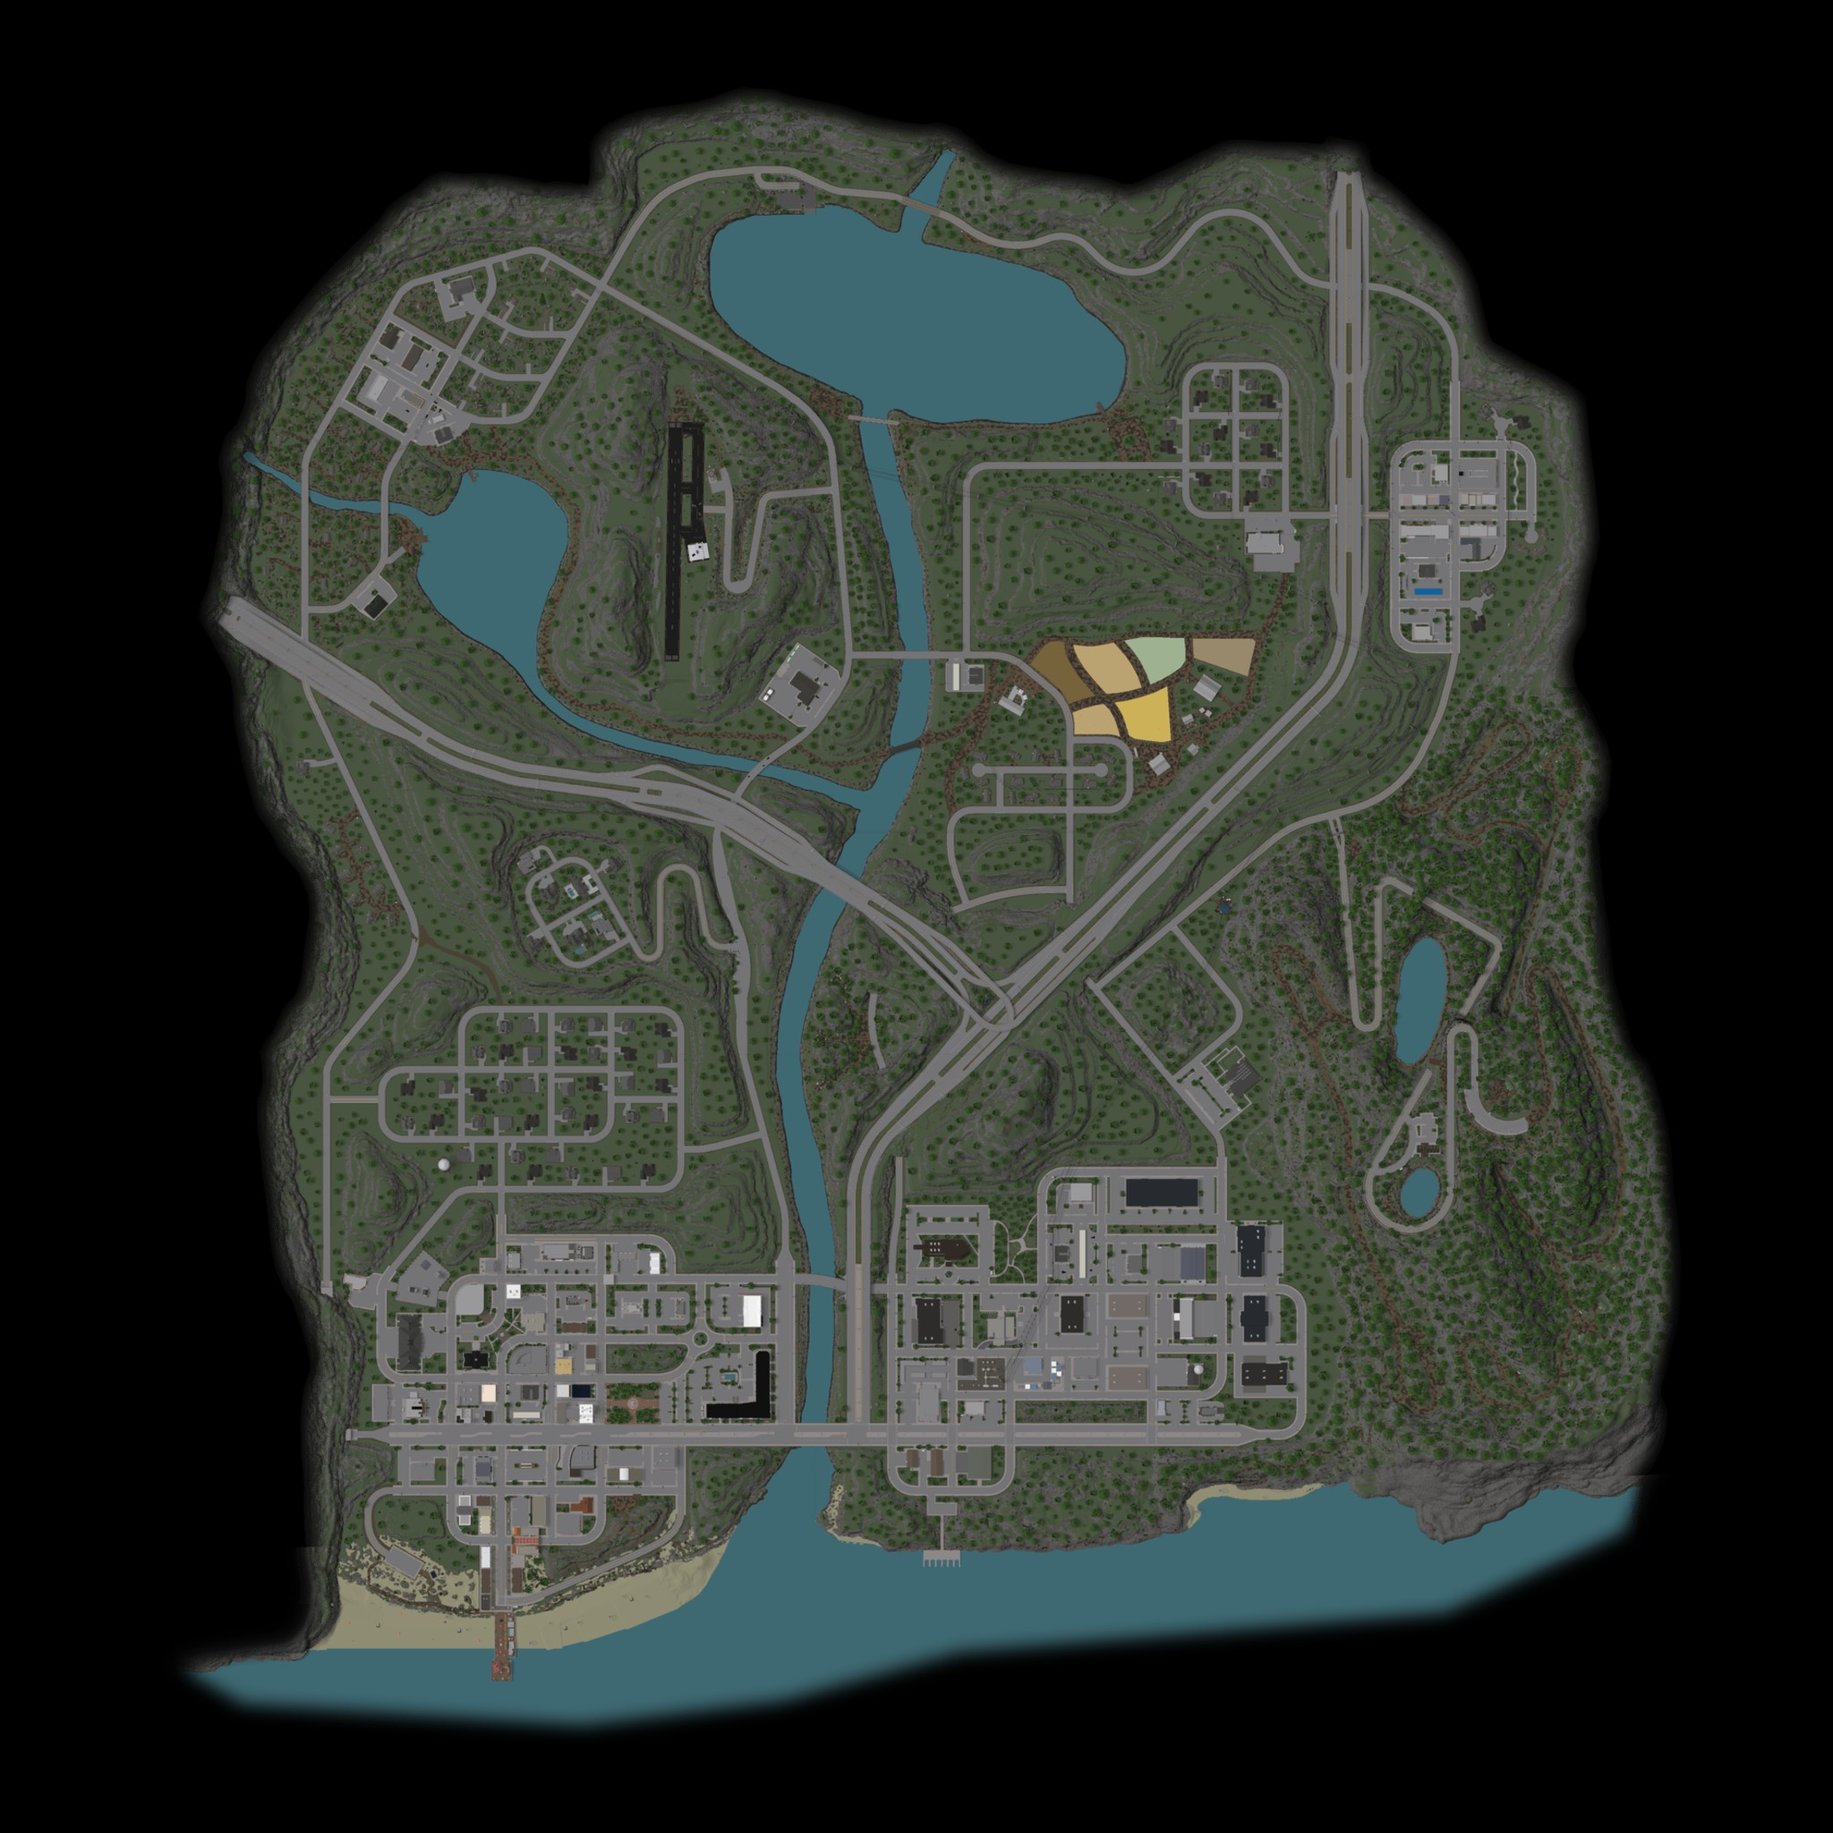
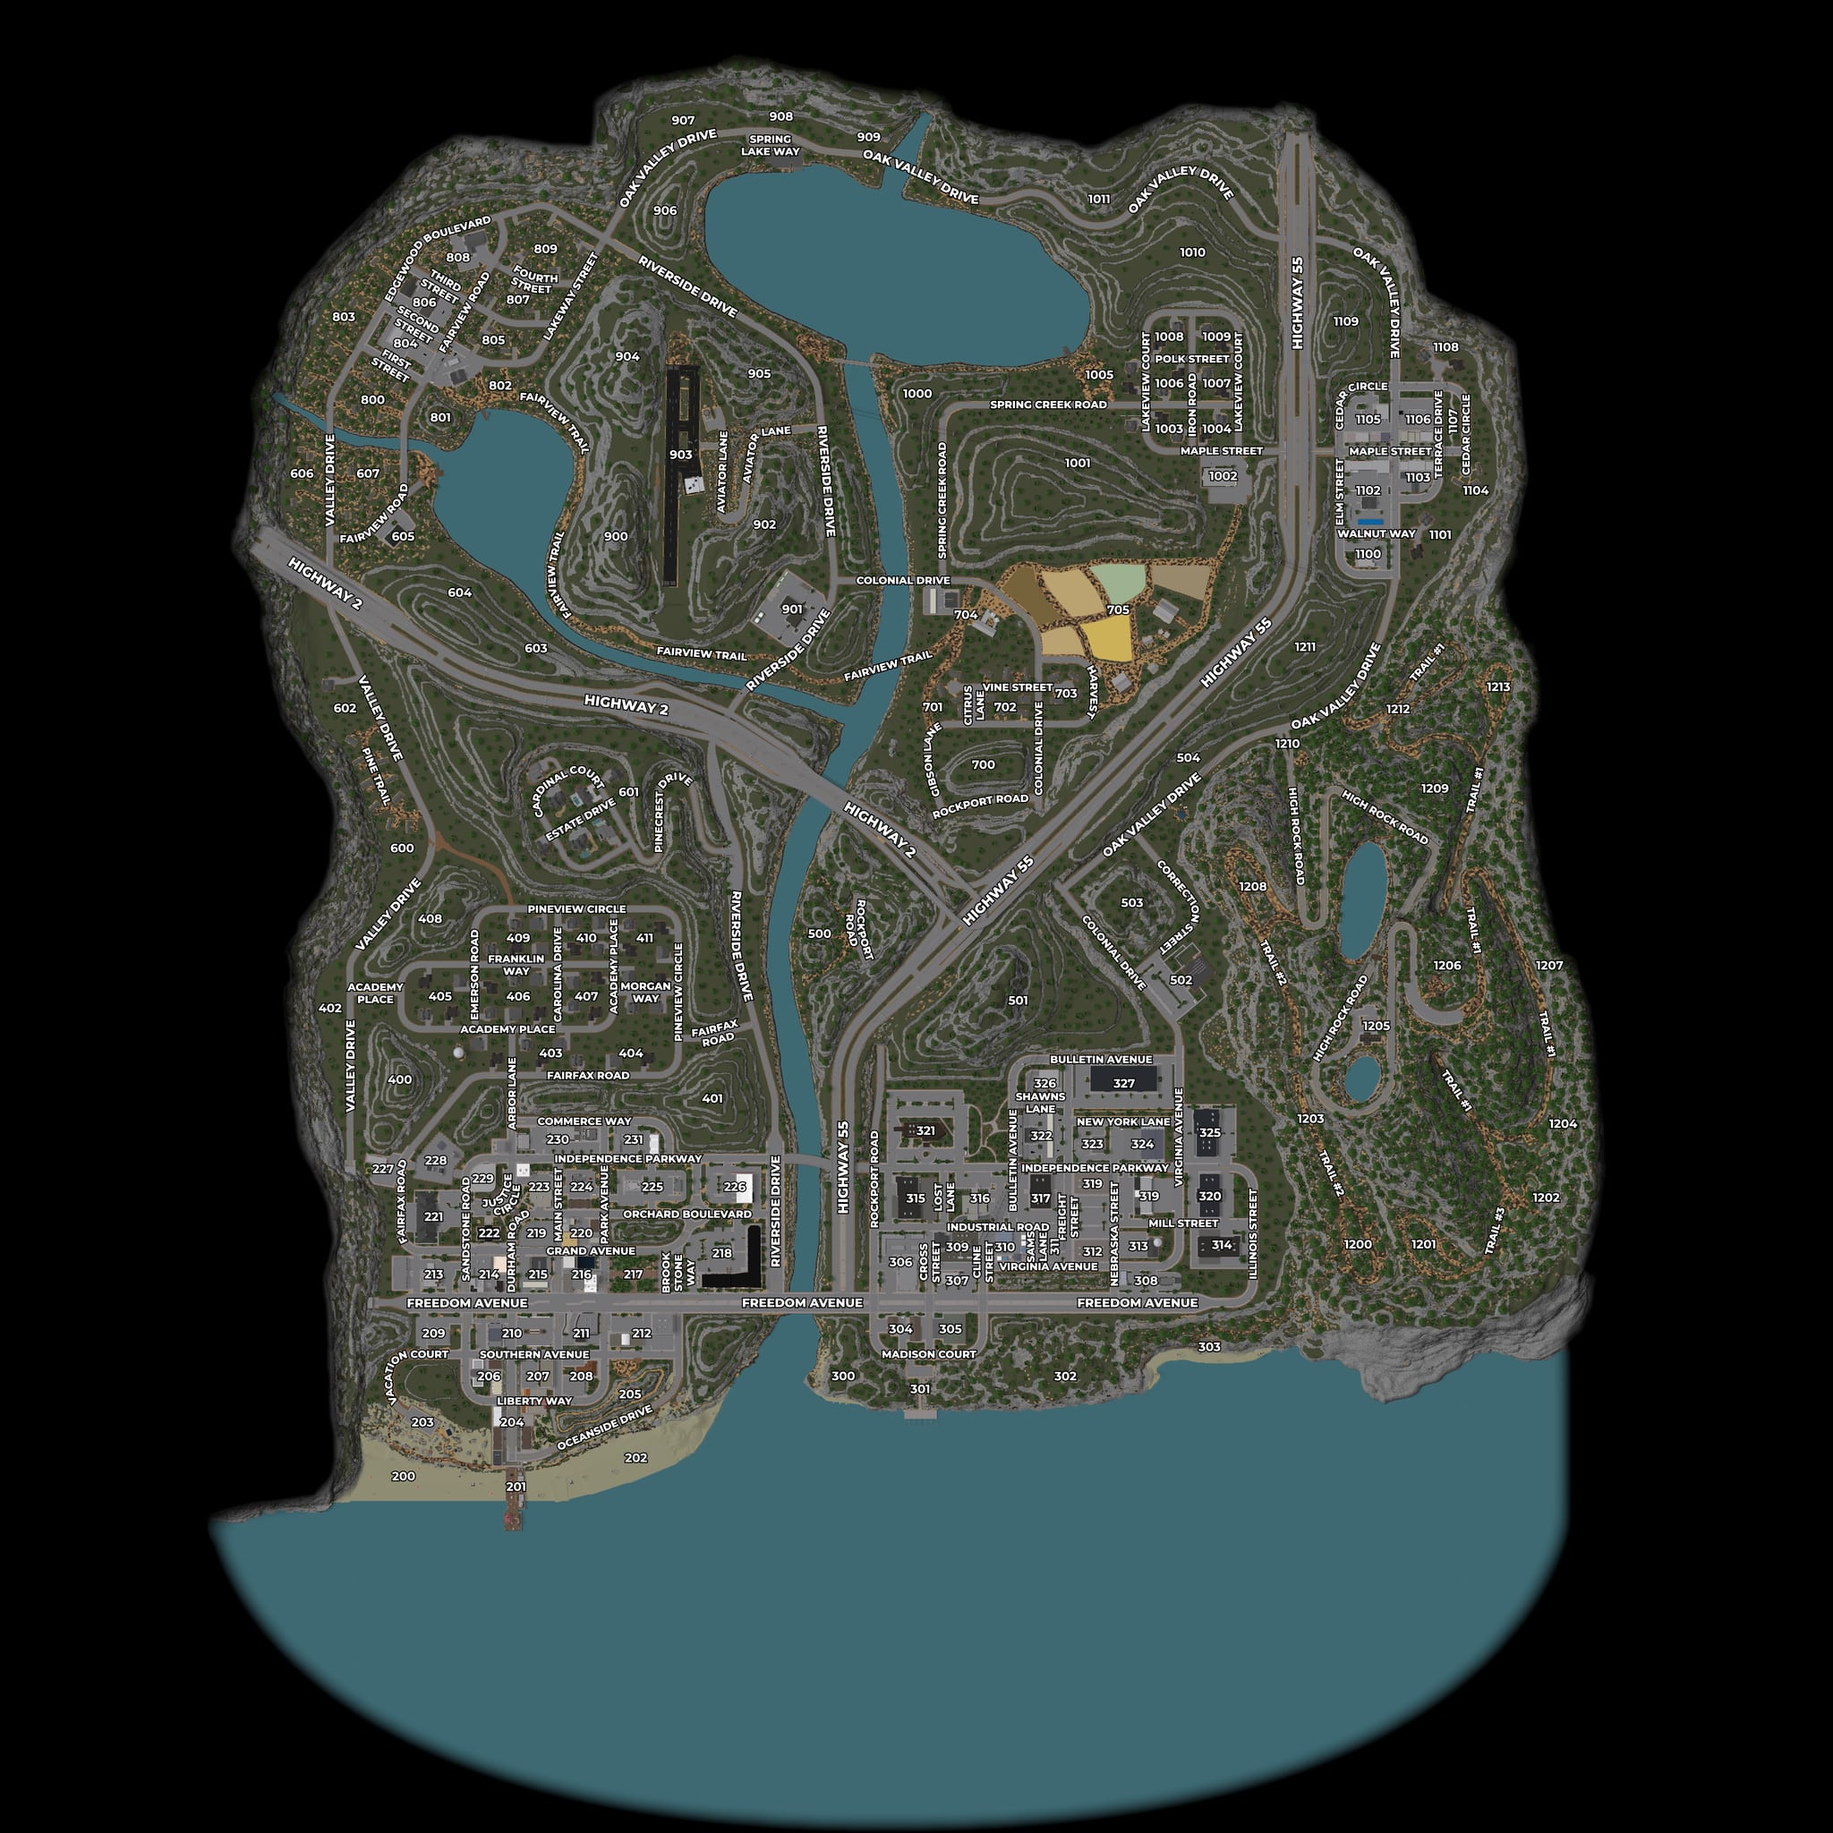
Update Liberty County maps to the new official ER:LC images.
Deputy Lookup, police-report pins, and Internet drop locations use the seasonal postal maps from api.erlc.gg (currently 5355px). The bot caches the live image and falls back to a bundled 2048px copy.

diff --git a/utils/erlcMaps.js b/utils/erlcMaps.js
@@ -1,0 +1,98 @@
+import { mkdir, stat, writeFile } from 'node:fs/promises';
+import path from 'node:path';
+import { fileURLToPath } from 'node:url';
+import { logger } from './logger.js';
+
+export const ERLC_MAPS_INDEX_URL = 'https://api.erlc.gg/maps';
+/** Current official map listing (https://api.erlc.gg/maps). Images cover the 3120² stud plane. */
+export const LIBERTY_MAP_PIXELS = 5355;
+export const ERLC_MAP_SEASONS = Object.freeze(['fall', 'snow', 'spring', 'summer']);
+
+const ROOT = path.join(path.dirname(fileURLToPath(import.meta.url)), '..');
+export const ERLC_MAP_CACHE_DIR = path.join(ROOT, 'data', 'erlc-maps');
+const CACHE_MS = 24 * 60 * 60 * 1000;
+
+export function parseErlcMapListing(payload) {
+  const urls = Array.isArray(payload?.maps)
+    ? payload.maps
+    : (Array.isArray(payload) ? payload : []);
+  return urls.map((value) => {
+    const url = String(value || '').trim();
+    const file = url.split('/').pop() || '';
+    const match = file.match(/^(fall|snow|winter|spring|summer)_(blank|postals)\.png$/i);
+    const season = match ? String(match[1]).toLowerCase().replace(/^winter$/, 'snow') : '';
+    const kind = match ? String(match[2]).toLowerCase() : '';
+    return { url, file, season, kind };
+  }).filter((entry) => entry.url.startsWith('https://'));
+}
+
+export function erlcMapSeason(date = new Date()) {
+  const month = date.getUTCMonth() + 1;
+  if (month === 12 || month <= 2) return 'snow';
+  if (month <= 5) return 'spring';
+  if (month <= 8) return 'summer';
+  return 'fall';
+}
+
+export function pickErlcMap(maps, { season = '', postals = true } = {}) {
+  const list = Array.isArray(maps) && maps[0]?.url ? maps : parseErlcMapListing(maps);
+  const wantKind = postals ? 'postals' : 'blank';
+  const wantSeason = String(season || erlcMapSeason()).toLowerCase().replace(/^winter$/, 'snow');
+  return list.find((entry) => entry.season === wantSeason && entry.kind === wantKind)
+    || list.find((entry) => entry.season === 'fall' && entry.kind === wantKind)
+    || list.find((entry) => entry.kind === wantKind)
+    || list[0]
+    || null;
+}
+
+export async function fetchErlcMapListing({ fetchImpl = fetch, timeoutMs = 8_000 } = {}) {
+  const response = await fetchImpl(ERLC_MAPS_INDEX_URL, {
+    headers: { Accept: 'application/json' },
+    signal: AbortSignal.timeout(timeoutMs),
+  });
+  if (!response.ok) {
+    throw new Error(`ER:LC map list failed (${response.status})`);
+  }
+  return parseErlcMapListing(await response.json());
+}
+
+async function fileIsFresh(filePath) {
+  try {
+    const info = await stat(filePath);
+    return info.isFile() && info.size > 10_000 && (Date.now() - info.mtimeMs) < CACHE_MS;
+  } catch {
+    return false;
+  }
+}
+
+/**
+ * Download the current official postal map for Discord location crops.
+ * Falls back to the bundled asset when the API is unreachable.
+ */
+export async function ensureOfficialErlcMapFile({
+  postals = true,
+  season,
+  fallbackPath = '',
+  fetchImpl = fetch,
+  cacheDir = ERLC_MAP_CACHE_DIR,
+} = {}) {
+  try {
+    const maps = await fetchErlcMapListing({ fetchImpl });
+    const picked = pickErlcMap(maps, { season, postals });
+    if (!picked?.url) throw new Error('ER:LC map list had no images');
+    const dest = path.join(cacheDir, picked.file || 'erlc-map.png');
+    if (await fileIsFresh(dest)) return dest;
+    await mkdir(cacheDir, { recursive: true });
+    const response = await fetchImpl(picked.url, { signal: AbortSignal.timeout(60_000) });
+    if (!response.ok) throw new Error(`ER:LC map download failed (${response.status})`);
+    const buffer = Buffer.from(await response.arrayBuffer());
+    if (buffer.length < 10_000) throw new Error('ER:LC map download was empty');
+    await writeFile(dest, buffer);
+    logger.info(`ER:LC map cached ${picked.file} (${buffer.length} bytes).`);
+    return dest;
+  } catch (error) {
+    logger.warn(`ER:LC official map unavailable (${error?.message || error}); using bundled map.`);
+    if (fallbackPath) return fallbackPath;
+    throw error;
+  }
+}

diff --git a/utils/libertyMapImage.js b/utils/libertyMapImage.js
@@ -5,7 +5,9 @@ import path from 'node:path';
 import { fileURLToPath } from 'node:url';
 import { promisify } from 'node:util';
 import ffmpegPath from 'ffmpeg-static';
+import sharp from 'sharp';
 import { libertyMapPoint } from './erlc.js';
+import { ensureOfficialErlcMapFile, LIBERTY_MAP_PIXELS } from './erlcMaps.js';
 import { logger } from './logger.js';
 
 const execFileAsync = promisify(execFile);
@@ -14,14 +16,20 @@ const ROOT = path.join(path.dirname(fileURLToPath(import.meta.url)), '..');
 export const LIBERTY_MAP_PATH = path.join(ROOT, 'assets', 'liberty-county-map.png');
 export const LIBERTY_MAP_PIN_PATH = path.join(ROOT, 'assets', 'liberty-map-pin.png');
 
-const MAP_SIZE = 2048;
-/** Smaller crop = tighter zoom around the deputy's pin. */
-const CROP_SIZE = 427;
+/** Zoom window as a fraction of the map, matching the old 427px crop on 2048px art. */
+const CROP_FRACTION = 427 / 2048;
 const OUTPUT_SIZE = 768;
 const PIN_DISPLAY = 56;
 /** Tip of the pin graphic (bottom point), relative to the scaled pin image. */
 const PIN_TIP_X = Math.round(PIN_DISPLAY * 0.5);
 const PIN_TIP_Y = Math.round(PIN_DISPLAY * 0.84);
+
+async function resolveMapFile() {
+  return ensureOfficialErlcMapFile({
+    postals: true,
+    fallbackPath: LIBERTY_MAP_PATH,
+  });
+}
 
 /**
  * Render a zoomed Liberty County map with a pin at the player's in-game location.
@@ -39,12 +47,22 @@ export async function renderLibertyLocationMap(location = {}) {
     : libertyMapPoint(location.x, location.z);
   if (!pin) return null;
 
-  const px = Math.round(pin.left * MAP_SIZE);
-  const py = Math.round(pin.top * MAP_SIZE);
-  const x0 = Math.max(0, Math.min(MAP_SIZE - CROP_SIZE, px - Math.floor(CROP_SIZE / 2)));
-  const y0 = Math.max(0, Math.min(MAP_SIZE - CROP_SIZE, py - Math.floor(CROP_SIZE / 2)));
+  const mapPath = await resolveMapFile();
+  let mapSize = LIBERTY_MAP_PIXELS;
+  try {
+    const meta = await sharp(mapPath).metadata();
+    if (meta.width && meta.height) mapSize = Math.min(meta.width, meta.height);
+  } catch (error) {
+    logger.warn(`Liberty map: could not read map size (${error?.message || error})`);
+  }
 
-  const scale = OUTPUT_SIZE / CROP_SIZE;
+  const cropSize = Math.max(240, Math.round(mapSize * CROP_FRACTION));
+  const px = Math.round(pin.left * mapSize);
+  const py = Math.round(pin.top * mapSize);
+  const x0 = Math.max(0, Math.min(mapSize - cropSize, px - Math.floor(cropSize / 2)));
+  const y0 = Math.max(0, Math.min(mapSize - cropSize, py - Math.floor(cropSize / 2)));
+
+  const scale = OUTPUT_SIZE / cropSize;
   const overlayX = Math.max(0, Math.min(
     OUTPUT_SIZE - PIN_DISPLAY,
     Math.round((px - x0) * scale) - PIN_TIP_X,
@@ -60,18 +78,18 @@ export async function renderLibertyLocationMap(location = {}) {
   try {
     await execFileAsync(ffmpegPath, [
       '-y',
-      '-i', LIBERTY_MAP_PATH,
+      '-i', mapPath,
       '-i', LIBERTY_MAP_PIN_PATH,
       '-filter_complex',
-      `[0:v]crop=${CROP_SIZE}:${CROP_SIZE}:${x0}:${y0},scale=${OUTPUT_SIZE}:${OUTPUT_SIZE}[bg];`
+      `[0:v]crop=${cropSize}:${cropSize}:${x0}:${y0},scale=${OUTPUT_SIZE}:${OUTPUT_SIZE}[bg];`
       + `[1:v]scale=${PIN_DISPLAY}:${PIN_DISPLAY}[pin];`
       + `[bg][pin]overlay=${overlayX}:${overlayY}`,
       '-frames:v', '1',
       '-update', '1',
       outPath,
     ], {
-      timeout: 15_000,
-      maxBuffer: 8 * 1024 * 1024,
+      timeout: 30_000,
+      maxBuffer: 32 * 1024 * 1024,
     });
     return await readFile(outPath);
   } catch (error) {

diff --git a/test/erlcMaps.test.js b/test/erlcMaps.test.js
@@ -1,0 +1,78 @@
+import test from 'node:test';
+import assert from 'node:assert/strict';
+import {
+  ERLC_MAPS_INDEX_URL,
+  LIBERTY_MAP_PIXELS,
+  erlcMapSeason,
+  parseErlcMapListing,
+  pickErlcMap,
+  ensureOfficialErlcMapFile,
+} from '../utils/erlcMaps.js';
+import { libertyMapPoint, LIBERTY_WORLD } from '../utils/erlc.js';
+
+const listing = {
+  maps: [
+    'https://api.erlc.gg/maps/fall_blank.png',
+    'https://api.erlc.gg/maps/fall_postals.png',
+    'https://api.erlc.gg/maps/snow_blank.png',
+    'https://api.erlc.gg/maps/snow_postals.png',
+    'https://api.erlc.gg/maps/spring_blank.png',
+    'https://api.erlc.gg/maps/spring_postals.png',
+    'https://api.erlc.gg/maps/summer_blank.png',
+    'https://api.erlc.gg/maps/summer_postals.png',
+  ],
+};
+
+test('parses the official ER:LC map index and prefers postal art', () => {
+  const maps = parseErlcMapListing(listing);
+  assert.equal(ERLC_MAPS_INDEX_URL, 'https://api.erlc.gg/maps');
+  assert.equal(LIBERTY_MAP_PIXELS, 5355);
+  assert.equal(maps.length, 8);
+  assert.equal(pickErlcMap(maps, { season: 'fall', postals: true }).file, 'fall_postals.png');
+  assert.equal(pickErlcMap(maps, { season: 'snow', postals: false }).file, 'snow_blank.png');
+  assert.equal(pickErlcMap(maps, { season: 'winter', postals: true }).file, 'snow_postals.png');
+});
+
+test('map season follows the calendar', () => {
+  assert.equal(erlcMapSeason(new Date('2026-01-15T00:00:00Z')), 'snow');
+  assert.equal(erlcMapSeason(new Date('2026-04-01T00:00:00Z')), 'spring');
+  assert.equal(erlcMapSeason(new Date('2026-07-01T00:00:00Z')), 'summer');
+  assert.equal(erlcMapSeason(new Date('2026-09-28T00:00:00Z')), 'fall');
+});
+
+test('northwest-origin studs map onto the official map image', () => {
+  assert.deepEqual(libertyMapPoint(0, 0), { left: 0, top: 0 });
+  assert.equal(libertyMapPoint(LIBERTY_WORLD / 2, LIBERTY_WORLD / 2).left, 0.5);
+  assert.equal(libertyMapPoint(1084, 2302).left, Number((1084 / LIBERTY_WORLD).toFixed(5)));
+  const centre = libertyMapPoint(-420, 275);
+  assert.ok(centre.left < 0.5);
+  assert.ok(centre.top > 0.5);
+});
+
+test('ensureOfficialErlcMapFile uses the listed postal image and falls back', async () => {
+  const tmp = `/tmp/erlc-map-test-${Date.now()}.png`;
+  const fetchImpl = async (url) => {
+    if (String(url).endsWith('/maps')) {
+      return { ok: true, json: async () => listing };
+    }
+    return {
+      ok: true,
+      arrayBuffer: async () => Buffer.alloc(12_000, 7).buffer,
+    };
+  };
+  const first = await ensureOfficialErlcMapFile({
+    postals: true,
+    season: 'fall',
+    fetchImpl,
+    fallbackPath: tmp,
+    cacheDir: `/tmp/erlc-maps-${Date.now()}`,
+  });
+  assert.match(first, /fall_postals\.png$/);
+
+  const fallback = await ensureOfficialErlcMapFile({
+    postals: true,
+    fetchImpl: async () => { throw new Error('offline'); },
+    fallbackPath: '/tmp/bundled-liberty-map.png',
+  });
+  assert.equal(fallback, '/tmp/bundled-liberty-map.png');
+});

diff --git a/utils/internetStore.js b/utils/internetStore.js
@@ -39,6 +39,7 @@ export const CREDIT_STORE_PACKS = Object.freeze([
 import { AUTOMOD_HOLD_MESSAGE, AutomodHoldError, scanInternetContent } from './internetAutomod.js';
 import { JsonStoreCorruptError, readJsonFile, writeJsonFile } from './jsonStore.js';
 import { logger } from './logger.js';
+import { libertyMapPoint } from './erlc.js';
 import { allowRate, RateLimitError } from './rateLimit.js';
 import { mergeInternetBadges, sanitizeInternetBadges, withSiteBadges, dailyCreditTierForRoles } from './staffRanks.js';
 import { activePresenceWindowMs, listActiveInternetPresence } from './internetPresence.js';
@@ -2151,9 +2152,11 @@ function sanitizeDropLocation(raw) {
   let left = Number(raw.left);
   let top = Number(raw.top);
   if (Number.isFinite(x) && Number.isFinite(z)) {
-    const centreOrigin = x < 0 || z < 0;
-    left = centreOrigin ? 0.5 + (x / 3120) : x / 3120;
-    top = centreOrigin ? 0.5 + (z / 3120) : z / 3120;
+    const pin = libertyMapPoint(x, z);
+    if (pin) {
+      left = pin.left;
+      top = pin.top;
+    }
   }
   if (!Number.isFinite(left) || !Number.isFinite(top)) return null;
   return {

diff --git a/utils/erlc.js b/utils/erlc.js
@@ -525,15 +525,17 @@ export function parseErlcCommandLog(entry) {
   };
 }
 
-// Official map images are 3121Â² and cover the in-game 3120Â² stud plane.
-// Live /v2/server player payloads use northwest-origin studs (0..3120):
-// +X east/right, +Z south/down. Docs also describe a centre-origin variant
-// (negative values allowed); support both so pins never fall off the map.
+// Official map images from https://api.erlc.gg/maps currently ship at 5355×5355
+// and cover the in-game 3120² stud plane. Live /v2/server player payloads use
+// northwest-origin studs (0..3120): +X east/right, +Z south/down. Docs also
+// describe a centre-origin variant (negative values allowed); support both so
+// pins never fall off the map.
 
 /** True for DOT / Fire / Police / Sheriff teams — excluded from jail roster + zone drag. */
 export function isEmergencyServiceTeam(team) {
   return /\b(dot|fire|police|sheriff)\b/i.test(String(team || '').replace(/[_-]+/g, ' '));
 }
+export { LIBERTY_MAP_PIXELS } from './erlcMaps.js';
 export const LIBERTY_WORLD = 3120;
 
 function clamp01(value) {

diff --git a/police-report.html b/police-report.html
@@ -31,7 +31,7 @@
     <p class="pcso-form-label">In-game location</p>
     <p class="pcso-form-hint" data-map-hint>Click the map to mark where it happened.</p>
     <div class="pcso-map-picker" data-map-picker>
-      <img src="assets/liberty-county-map.jpg" alt="ER:LC Liberty County map" width="1536" height="1536" />
+      <img src="assets/liberty-county-map.jpg?v=20260928-erlc-maps" alt="ER:LC Liberty County map" width="2048" height="2048" />
       <img class="pcso-map-pin" data-map-pin src="assets/liberty-map-pin.png" alt="" hidden />
     </div>
     <input type="hidden" name="mapLeft" />
